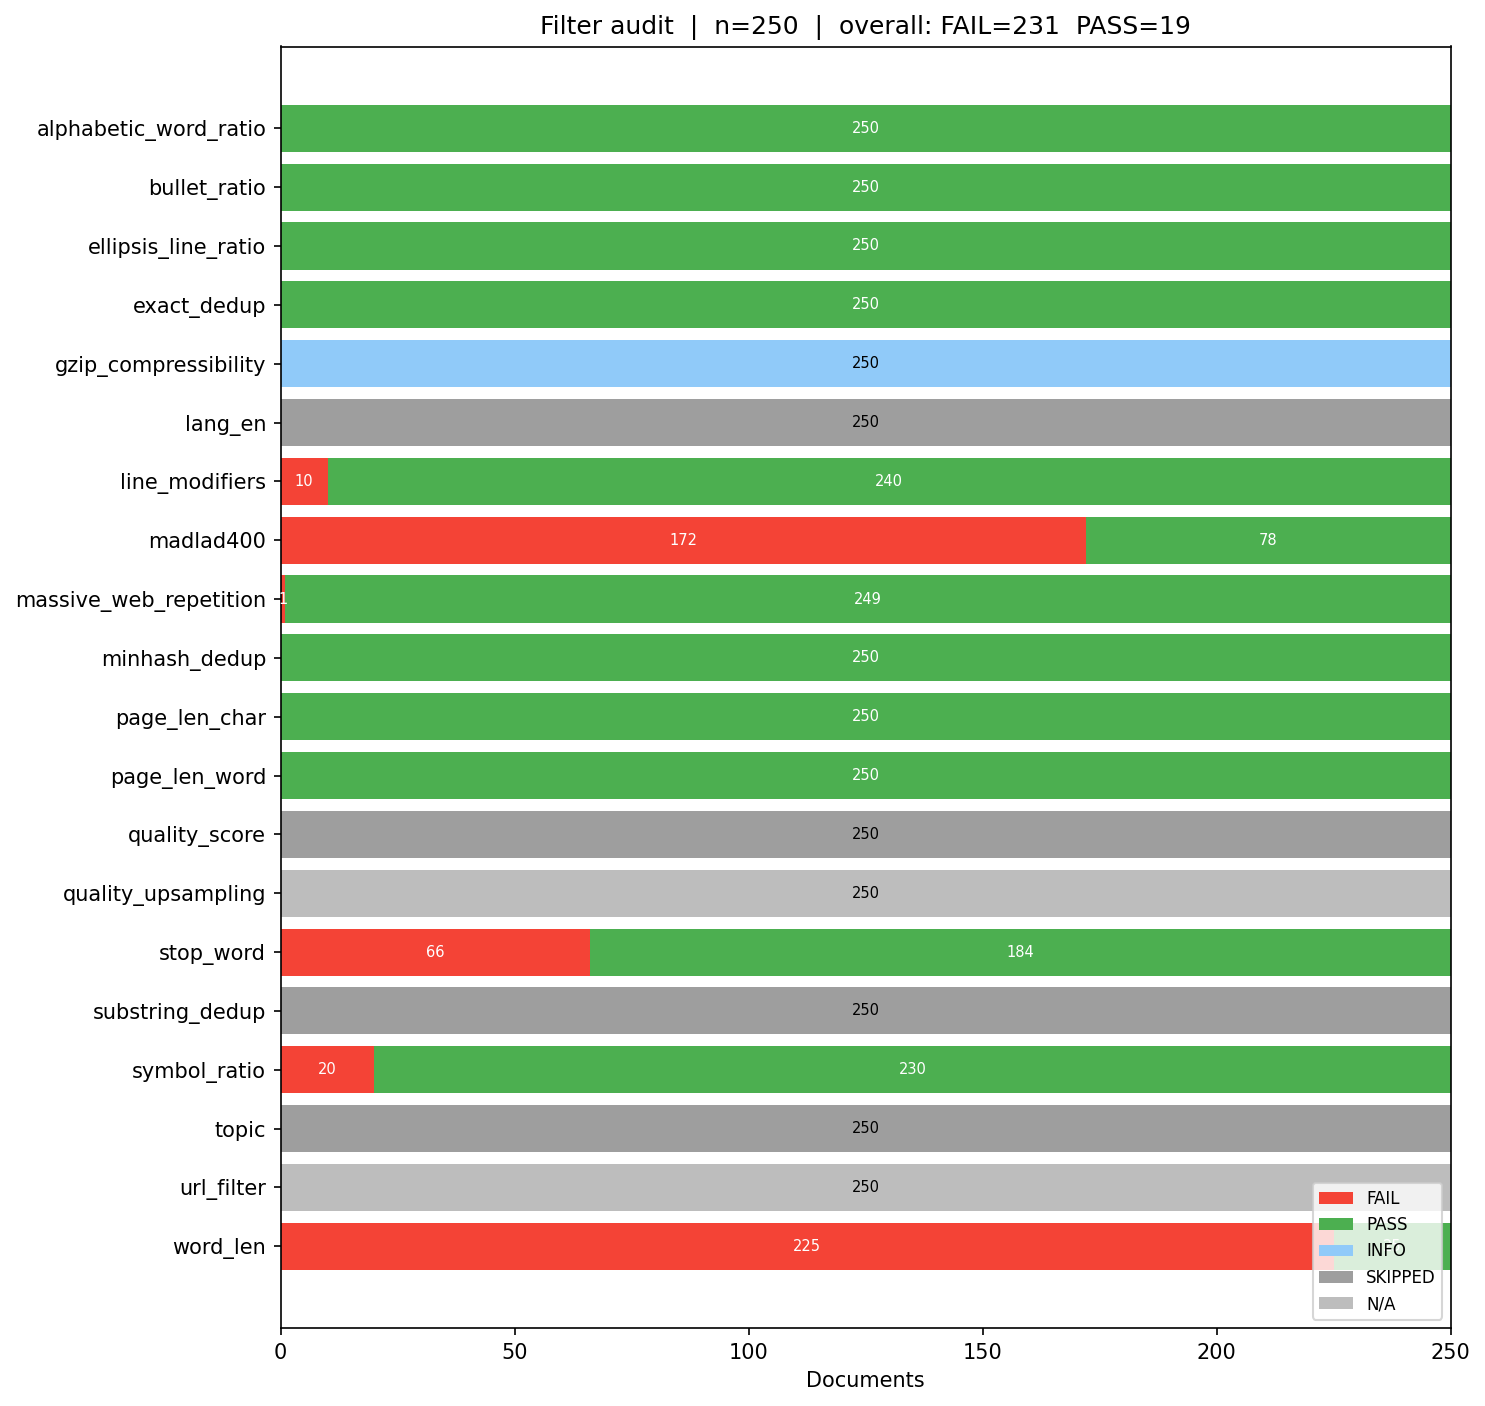
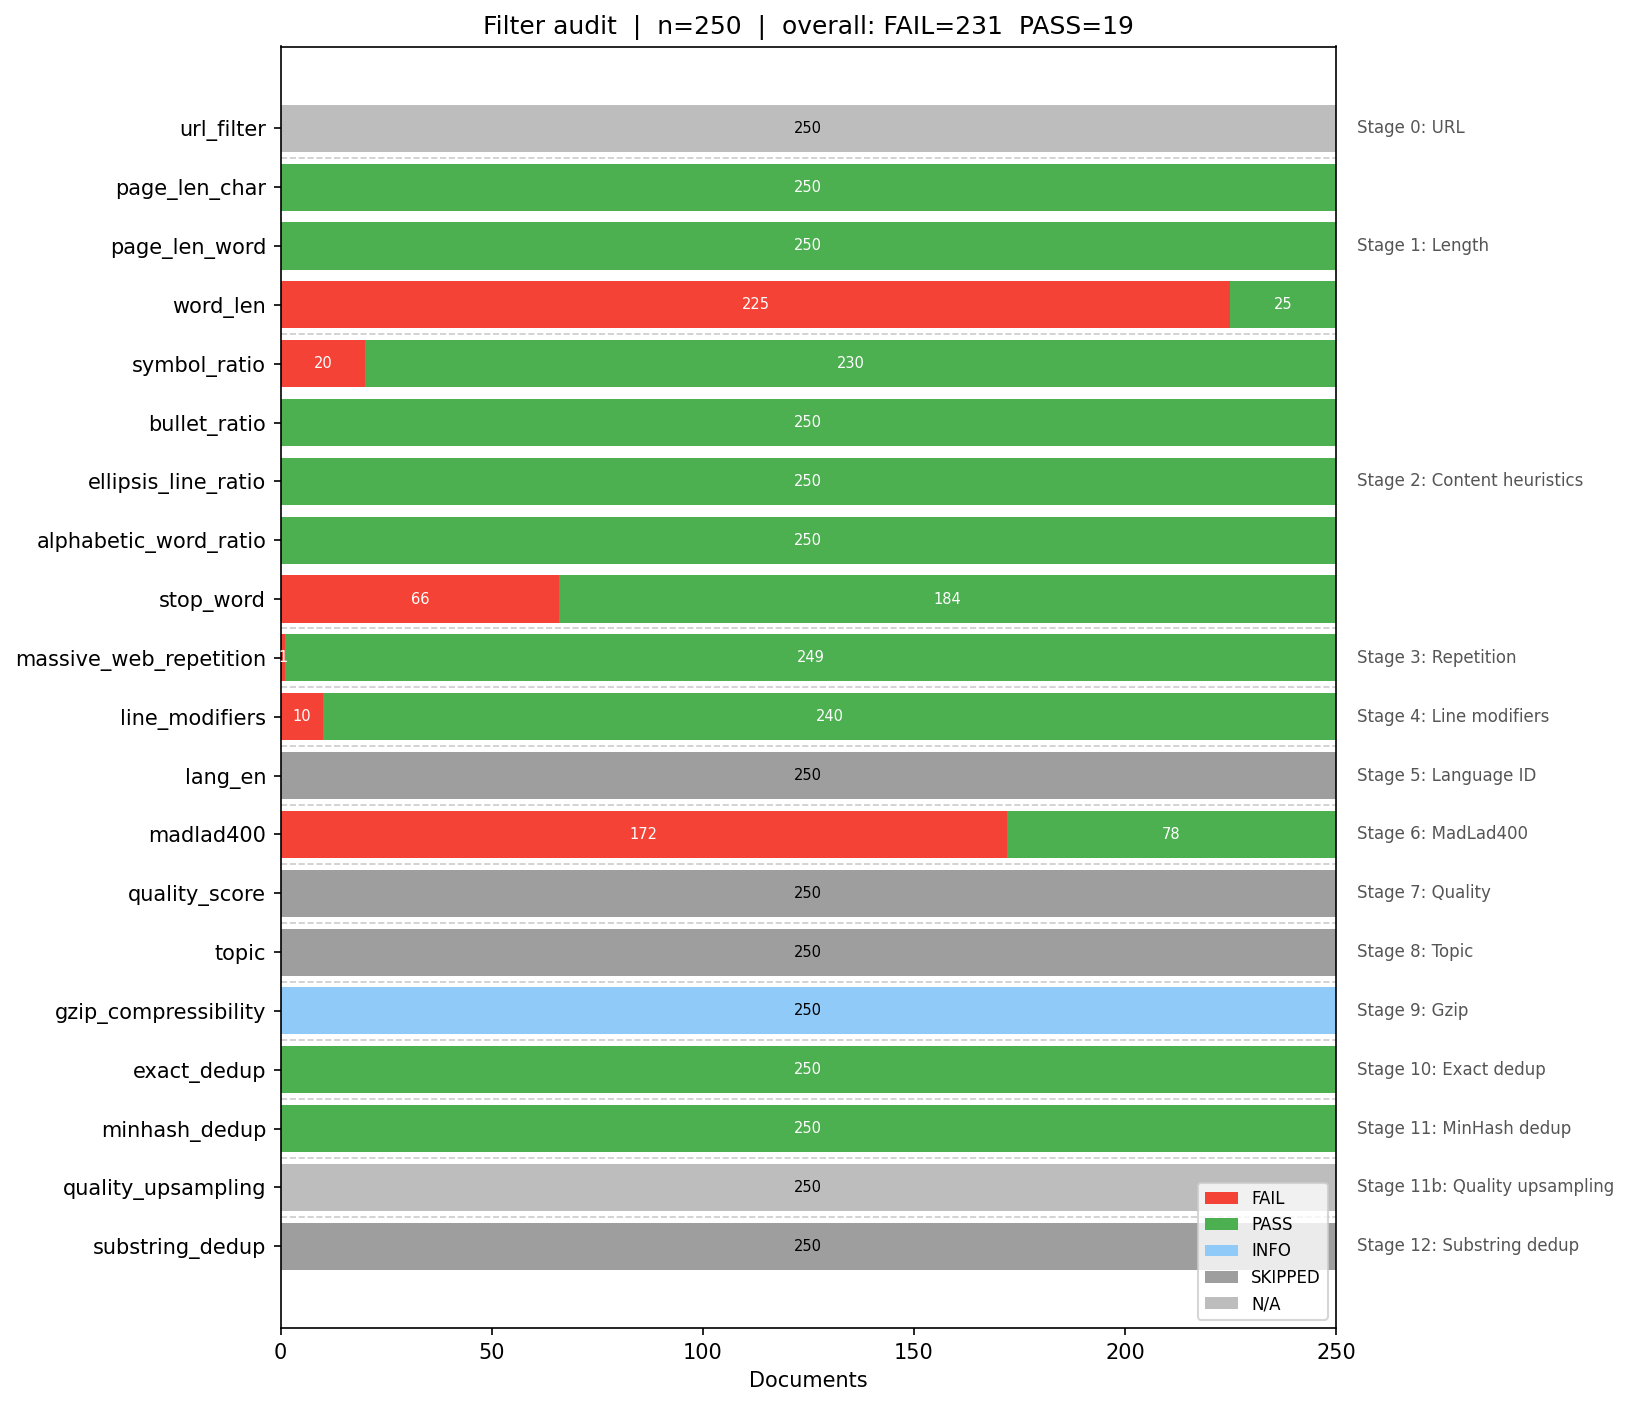
Add more infos plot / readme

diff --git a/t0_training/filters/plot.py b/t0_training/filters/plot.py
@@ -12,9 +12,67 @@ _COLORS = {
 }
 _OUTCOME_ORDER = ["FAIL", "PASS", "INFO", "SKIPPED", "N/A"]
 
+# Stage ordering matches the README narrative (Stage 0..12). The outer list is
+# one group per stage label; each group's members are the filter names produced
+# by `run_all_filters`. Filters not listed here sink to the bottom under "Other".
+_STAGE_GROUPS: list[tuple[str, list[str]]] = [
+    ("Stage 0: URL", ["url_filter"]),
+    ("Stage 1: Length", ["page_len_char", "page_len_word", "word_len"]),
+    (
+        "Stage 2: Content heuristics",
+        [
+            "symbol_ratio",
+            "bullet_ratio",
+            "ellipsis_line_ratio",
+            "alphabetic_word_ratio",
+            "stop_word",
+        ],
+    ),
+    ("Stage 3: Repetition", ["massive_web_repetition"]),
+    ("Stage 4: Line modifiers", ["line_modifiers"]),
+    ("Stage 5: Language ID", ["lang_en"]),
+    ("Stage 6: MadLad400", ["madlad400"]),
+    ("Stage 7: Quality", ["quality_score"]),
+    ("Stage 8: Topic", ["topic"]),
+    ("Stage 9: Gzip", ["gzip_compressibility"]),
+    ("Stage 10: Exact dedup", ["exact_dedup"]),
+    ("Stage 11: MinHash dedup", ["minhash_dedup"]),
+    ("Stage 11b: Quality upsampling", ["quality_upsampling"]),
+    ("Stage 12: Substring dedup", ["substring_dedup"]),
+]
+
+
+def _ordered_filters_with_groups(
+    present: set[str],
+) -> tuple[list[str], list[tuple[str, int, int]]]:
+    ordered: list[str] = []
+    groups: list[tuple[str, int, int]] = []
+    claimed: set[str] = set()
+    for label, names in _STAGE_GROUPS:
+        members = [n for n in names if n in present]
+        if not members:
+            continue
+        start = len(ordered)
+        ordered.extend(members)
+        groups.append((label, start, len(ordered)))
+        claimed.update(members)
+
+    leftovers = sorted(present - claimed)
+    if leftovers:
+        start = len(ordered)
+        ordered.extend(leftovers)
+        groups.append(("Other", start, len(ordered)))
+
+    return ordered, groups
+
 
 def plot_filter_audit_summary(summary_json: Path | str, out_path: Path | str | None = None) -> "matplotlib.figure.Figure":
-    """Horizontal stacked bar chart of per-filter outcomes from a summary JSON."""
+    """Horizontal stacked bar chart of per-filter outcomes from a summary JSON.
+
+    Filters are ordered by pipeline stage (Stage 0 at the top → Stage 12 at the
+    bottom). Stage boundaries are marked with thin horizontal separators and the
+    stage label is annotated on the right.
+    """
     import matplotlib.pyplot as plt
     import numpy as np
 
@@ -25,23 +83,45 @@ def plot_filter_audit_summary(summary_json: Path | str, out_path: Path | str | N
     n_docs: int = summary["n_docs"]
     overall: dict[str, int] = summary["overall"]
 
-    filters = sorted(per_filter.keys())
+    filters, groups = _ordered_filters_with_groups(set(per_filter.keys()))
     outcomes = [o for o in _OUTCOME_ORDER if any(o in per_filter[f] for f in filters)]
 
     data = np.array([[per_filter[f].get(o, 0) for o in outcomes] for f in filters], dtype=float)
 
-    fig, ax = plt.subplots(figsize=(10, max(4, 0.4 * len(filters) + 1.5)))
+    fig, ax = plt.subplots(figsize=(11, max(4, 0.4 * len(filters) + 1.5)))
+
+    y_positions = np.arange(len(filters))
 
     lefts = np.zeros(len(filters))
     for i, outcome in enumerate(outcomes):
         vals = data[:, i]
-        bars = ax.barh(filters, vals, left=lefts, color=_COLORS.get(outcome, "#ccc"), label=outcome)
+        bars = ax.barh(y_positions, vals, left=lefts, color=_COLORS.get(outcome, "#ccc"), label=outcome)
         for bar, val in zip(bars, vals):
             if val > 0:
                 x = bar.get_x() + bar.get_width() / 2
                 ax.text(x, bar.get_y() + bar.get_height() / 2, str(int(val)),
                         ha="center", va="center", fontsize=7, color="white" if outcome in ("FAIL", "PASS") else "black")
         lefts += vals
+
+    ax.set_yticks(y_positions)
+    ax.set_yticklabels(filters)
+
+    for _label, _start, end in groups[:-1]:
+        ax.axhline(y=end - 0.5, color="#cccccc", linewidth=0.8, linestyle="--", zorder=0)
+
+    trans = ax.get_yaxis_transform()
+    for label, start, end in groups:
+        mid = (start + end - 1) / 2
+        ax.text(
+            1.02,
+            mid,
+            label,
+            transform=trans,
+            ha="left",
+            va="center",
+            fontsize=8,
+            color="#555555",
+        )
 
     ax.set_xlim(0, n_docs)
     ax.set_xlabel("Documents")

diff --git a/t0_training/filters/README.md b/t0_training/filters/README.md
@@ -24,9 +24,13 @@ The CLI (`t0-filter-audit`, defined in [t0_training/cli.py](../cli.py)) accepts 
 
 ### Stage 0 — URL filter ([`__init__.py`](__init__.py))
 
+**Purpose:** Drop documents from domains known to host spam, SEO farms, adult content, or outright malware *before* any text processing. Removing at the URL level is orders of magnitude cheaper than running heuristics on everything, and it kills entire categories of bad content that would otherwise slip past statistical filters (coherent spam text can easily pass length / symbol / repetition screens).
+
 OLMo 3 uses 10 successive FineWeb / RefinedWeb blocklists on each document's source URL. Poisoned shards have no URL metadata attached, so this stage reports `N/A` unconditionally. If we ever audit full CC documents we will wire up the real blocklists here.
 
 ### Stage 1 — Length filters ([heuristic.py](heuristic.py))
+
+**Purpose:** Remove documents that are too short to teach the model anything useful (navigation stubs, error pages, boilerplate) or so long they're probably concatenated junk / machine-generated dumps. The `word_len` check catches a different failure mode: degenerate tokenisation — URLs, base64 blobs, minified code, and random-byte gibberish all produce abnormally long "words". On the Dolma 3 pool this stage alone drops 40% of documents, making it the single biggest filter by volume.
 
 - `page_len_char`: alphanumeric char count ≥ 150. Uses `c.isalnum()` to match `datamap-rs`'s `is_alphanumeric()`.
 - `page_len_word`: 50 ≤ word count ≤ 100 000, with `ignore_punctuation=true` (Unicode `\w+` tokens).
@@ -36,6 +40,8 @@ Typical failure: DoS-poisoned gibberish blows the `word_len` upper bound because
 
 ### Stage 2 — Content heuristics ([heuristic.py](heuristic.py))
 
+**Purpose:** Reject documents whose *shape* betrays them as non-prose. Heavy `#` / ellipsis markup = hashtag spam or truncated snippets; all-bullet pages = navigation / TOC dumps; ellipsis-terminated lines = link-preview grids where every entry ends with `"Read more…"`; non-alphabetic tokens dominating = log files or numeric tables; missing common English stop words = either non-English text the LID missed or content sparse enough that it isn't natural prose. Cheap and complementary: each filter targets a narrow failure mode that's visually obvious but hard for a classifier to articulate. Together they remove 22% of the Dolma 3 pool.
+
 - `symbol_ratio`: `(# + ... + …) / word_count ≤ 0.1`. The text is pre-normalised so `. . .` collapses to `...` before both counts.
 - `bullet_ratio`: fraction of lines starting with `●`, `•`, `*`, or `-` is ≤ 0.9. Splits on `\n` (not `splitlines()`) to mirror `datamap-rs` behaviour on `\r\n` inputs.
 - `ellipsis_line_ratio`: fraction of non-empty lines ending with `...`, `. . .`, or `…` is ≤ 0.3.
@@ -43,6 +49,8 @@ Typical failure: DoS-poisoned gibberish blows the `word_len` upper bound because
 - `stop_word`: the document contains at least two tokens (case-insensitive) from `{"the", "be", "to", "of", "and", "that", "have", "with"}`. Counts occurrences, not unique tokens.
 
 ### Stage 3 — Repetition ([repetition.py](repetition.py))
+
+**Purpose:** Drop documents that loop. Internal repetition is one of the strongest signals of low-quality web content — template-generated product listings, crawl loops that picked up the same paragraph 20 times, chorus-heavy song lyric dumps, copy-paste forum threads. Training on these teaches the model to produce degenerate repetitive outputs; Gopher showed a direct link between training-set repetition and generation-loop pathology. The 13-rule screen covers the main scales at which repetition shows up (lines, paragraphs, 2- to 10-word n-grams) with progressively tighter thresholds as n grows — long repeated n-grams are more suspicious than short ones.
 
 `massive_web_repetition_filter` implements the Gopher "MassiveWeb" repetition screen with 13 hardcoded rules: unweighted line/paragraph duplication + weighted word n-gram coverage for n ∈ {2..10}. A rule fires if the duplicated fraction exceeds its threshold (thresholds copied from the Gopher paper).
 
@@ -54,6 +62,8 @@ Two subtleties in `rep_counter_fraction`:
 Element extraction: `lines = text.split("\n")` filtered to non-empty, `paragraphs = text.split("\n\n")` filtered to non-empty, `words = regex.findall(r"\w+", text)`. These definitions match the Rust source.
 
 ### Stage 4 — Line modifiers + word-removal filter ([heuristic.py](heuristic.py))
+
+**Purpose:** Clean up documents rather than reject them. Real web pages are mostly good prose wrapped in boilerplate — nav menus, cookie banners, "10K likes" social counters, Sign-in / Read more links, ALL-CAPS banners, page numbers. Rather than throwing the baby out with the bathwater, this stage surgically strips those lines and only rejects the document if the surgery removed more than 5% of it (because at that point the document was mostly boilerplate to begin with). The word-removal ratio acts as a sanity check that we're trimming noise rather than mutilating content.
 
 Eight modifiers run in order (see `run_line_modification_pipeline`), each may drop or rewrite lines. Applied in sequence so later stages see the output of earlier ones:
 
@@ -73,11 +83,15 @@ Note on `substring_line_modifier`: when `location="prefix"` or `location="suffix
 
 ### Stage 5 — FastText English LID ([classifiers.py](classifiers.py))
 
+**Purpose:** Keep only English documents. OLMo 3 is trained English-monolingual on the web side; mixed-language pages and non-English text learned incidentally tend to hurt English benchmarks without meaningfully helping cross-lingual ones at this model scale. A FastText classifier is used (rather than `langdetect` or rule-based heuristics) because it's fast enough for billion-document pipelines and resilient to short / noisy inputs. The 0.65 threshold is deliberately permissive — it keeps code-switched documents with clear English majorities while rejecting documents that are mostly another language with English fragments.
+
 Loads Facebook's `lid.176.bin` (131 MB, cached at `~/.cache/t0_training/filter_models/`), predicts with `k=10, threshold=0.0`, extracts the `__label__en` probability, and passes if ≥ 0.65. Preprocess step mirrors `datamap-rs`: `text.replace("\n", " ") + "\n"`.
 
 If the `fasttext` module is not installed (it's in the `filters` optional dep), or `lid.176.bin` cannot be downloaded, the stage is `SKIPPED` with an explanatory detail. The skip is silent — it never blocks the rest of the audit.
 
 ### Stage 6 — MadLad400 ([madlad.py](madlad.py))
+
+**Purpose:** Catch machine-translated content, OCR garbage, and SEO-generated text that passed the simpler heuristics. The MadLad400 paper identified a small family of sentence-level signatures that reliably flag low-quality multilingual crawl content: "list-case" (menu dumps, product grids where every item is capitalised) and a curated "cursed" banlist of substrings and regexes empirically associated with spam / adversarial content. Operating at sentence granularity with a document-level aggregation threshold lets the filter tolerate isolated bad sentences while rejecting documents where the pattern dominates. Also rejects documents with < 5 sentences outright — too short for the sentence-level statistic to be meaningful, and most such "documents" are fragments anyway.
 
 Document-level version of the MadLad cursed-sentence filter, restricted to rules 2 and 5 (the two OLMo 3 actually uses):
 
@@ -88,13 +102,19 @@ Sentence splitter: `re.split(r"[.!?]+\s+", text)`, filter empty. Documents with 
 
 ### Stage 7 — Quality classifier ([classifiers.py](classifiers.py))
 
+**Purpose:** Learned scalar score for "document looks like high-quality educational / conversational text." Trained on a positive pool of OpenHermes-2.5, ELI5, UltraChat, and WildChat (human-curated and instruction-tuned sources) against a negative pool of random DCLM-RefinedWeb. Unlike the heuristics above, this catches *subjective* quality — is the writing coherent, is the topic meaningful, does the document teach something — that no hand-crafted rule can articulate. It doesn't reject documents by itself; instead, the score feeds into the quality-aware upsampling stage (11b), which uses it to weight each document's contribution to training.
+
 `allenai/dolma3-fasttext-quality-classifier` → reports `__label__hq` probability as INFO. There is no hard threshold at the audit stage — the score feeds the quality-aware upsampling check (Stage 11) when a corpus index is available. If the model download fails, reports SKIPPED.
 
 ### Stage 8 — Topic classifier ([classifiers.py](classifiers.py))
 
+**Purpose:** Assign each document to one of 24 WebOrganizer topics (science, entertainment, software dev, adult, …). The topic label has two uses downstream: (1) it lets the mix-design stage balance coverage across domains rather than letting raw CommonCrawl proportions dictate curriculum (news and SEO content dominate the raw web), and (2) it partitions the quality score into topic-relative percentiles — a quality score of 0.3 is stellar for adult content and mediocre for scientific writing, so comparisons only make sense within topic. Without this stage, "drop the bottom 40% by quality" would disproportionately gut specific domains.
+
 `allenai/dolma3-fasttext-weborganizer-topic-classifier` → reports the top of 24 WebOrganizer topics plus its softmax probability as INFO. Used together with Stage 7 to look up the per-topic p40 threshold for Stage 11. Same graceful-degradation behaviour as Stages 5 and 7.
 
 ### Stage 9 — Gzip compressibility ([classifiers.py](classifiers.py))
+
+**Purpose:** A one-number proxy for "how much structure does this document actually contain?" Extremely compressible documents are highly repetitive or mostly whitespace (low information density); extremely incompressible documents are random-looking — encrypted payloads, base64 blobs, token salads. Both tails hurt long-context training because they provide no useful long-range dependencies to learn from. OLMo 3 drops the top 20% and bottom 20% by this ratio in the long-context mix. Cheap to compute, surprisingly effective, and model-free — which is why they keep it despite also running a learned quality classifier.
 
 `len(gzip.compress(text)) / len(text)` reported as INFO. OLMo 3's long-context filter drops the top 20% and bottom 20% by this ratio, but those cutoffs are corpus-relative — without corpus percentiles we cannot give a PASS / FAIL. We report the raw ratio so reviewers can judge whether the document looks degenerate (very low → constant gibberish, very high → dense random).
 
@@ -112,9 +132,13 @@ The corpus index is built once from a mix file with `t0-build-filter-index` ([cl
 
 ### Stage 10 — Exact deduplication ([corpus_dedup.py](corpus_dedup.py))
 
+**Purpose:** Remove byte-for-byte duplicate documents from the corpus. The web is *extremely* duplicative — syndicated news articles appear across hundreds of outlets, forum mirrors replicate threads, boilerplate-heavy CMS templates produce near-identical pages across domains. Training on duplicates wastes compute (you pay to memorise the same text N times) and hurts generalisation (over-represented content crowds out rarer signal). This is the first of three dedup stages, progressively more expensive and more tolerant of variation: exact → fuzzy → substring. Exact catches the bulk cheaply, so later stages operate on a much smaller pool. Removes 67% of the Dolma 3 pre-dedup pool.
+
 xxh3-128 of the decoded document. FAIL if the hash is in the corpus set, PASS otherwise. O(1) per query; the whole hash set is ~16 bytes × num_docs and is cheap to hold in memory.
 
 ### Stage 11 — MinHash fuzzy deduplication ([corpus_dedup.py](corpus_dedup.py))
+
+**Purpose:** Catch near-duplicates that exact dedup misses — different paragraph order, minor reformatting, date-stamp differences, a paraphrased opening but the same body. MinHash signatures approximate Jaccard similarity over shingle sets, and LSH makes the query sub-linear. The 0.80 Jaccard threshold (calibrated by OLMo 3) keeps distinct-but-related articles while collapsing cross-domain reposts and template-differing mirrors. Removes another 23% of what remains after exact dedup. The cost is real — a full MinHash LSH over billions of documents takes significant RAM and time to build — but the quality improvement is large enough that every serious pretraining pipeline runs it.
 
 Tokenises with `tiktoken` p50k, slides a 5-token shingle window, hashes into a 128-permutation MinHash signature, queries the pre-built LSH at Jaccard ≥ 0.80. FAIL if at least one corpus doc collides. The per-candidate count goes into the report's `value` field.
 
@@ -122,11 +146,15 @@ Short-doc handling in `_iter_token_5grams`: if a document has < 5 tokens we yiel
 
 ### Stage 11b — Quality-aware upsampling check ([corpus_dedup.py](corpus_dedup.py))
 
+**Purpose:** Drop the bottom 40% of each topic bucket (and weight the rest toward higher quality during mixing). This is where OLMo 3 moves beyond flat filtering: instead of a single global quality threshold that would preserve too much mediocre science writing while gutting decent entertainment content, the filter applies a topic-relative p40 floor. The "pass" here represents whether a document would survive the lower bound of the upsampling curve — not the final upsampling weight, which the full OLMo 3 mix optimiser computes later. Documents below the floor are completely dropped; those above are upsampled with a monotone-convex curve that favours higher-scoring documents within their topic.
+
 Looks up the topic predicted in Stage 8, finds its p40 quality threshold in `topic_quality_stats.json`, and PASS / FAIL the document's Stage 7 `__label__hq` score against it. This is the OLMo 3 upsampling floor at `a = 0.40` — documents below it get dropped from their topic bucket.
 
 If Stage 7 or 8 was SKIPPED (no FastText models), this stage is also SKIPPED with a matching detail. If the topic hasn't been seen in the corpus index, SKIPPED with `"topic '<x>' absent from quality stats"`.
 
 ### Stage 12 — Substring deduplication ([corpus_dedup.py](corpus_dedup.py))
+
+**Purpose:** Remove long repeated *substrings* that exact and fuzzy dedup can't see because they're embedded inside otherwise-distinct documents — shared boilerplate footers, common legal disclaimers, syndicated sidebars, GitHub README fragments that propagate across forks, widely-copied Stack Overflow answers. At ≥ 500 bytes repeated across the corpus, these contribute essentially nothing to generalisation but get trained on repeatedly under fuzzy-dedup tolerance. Suffix-array-based because that's the only data structure that can answer "does this substring appear in the corpus" without quadratic blowup. OLMo 3 removes 14% of *bytes* here even after the first two dedup passes — small in document count but meaningful in training-time impact.
 
 Optional. We shell out to [`bsade`](https://github.com/liujch1998/bsade) if it's available on `$PATH` (or `--bsade-binary` is passed): pipe the document to stdin, parse matched byte ranges from the output, FAIL if ≥ 500 bytes AND ≥ 5% of the document are covered by matches. If `bsade` isn't installed, the stage is SKIPPED. This matches OLMo 3's Dolma 3 substring-dedup thresholds; corpus-scale suffix arrays aren't built inside this repo.
 
